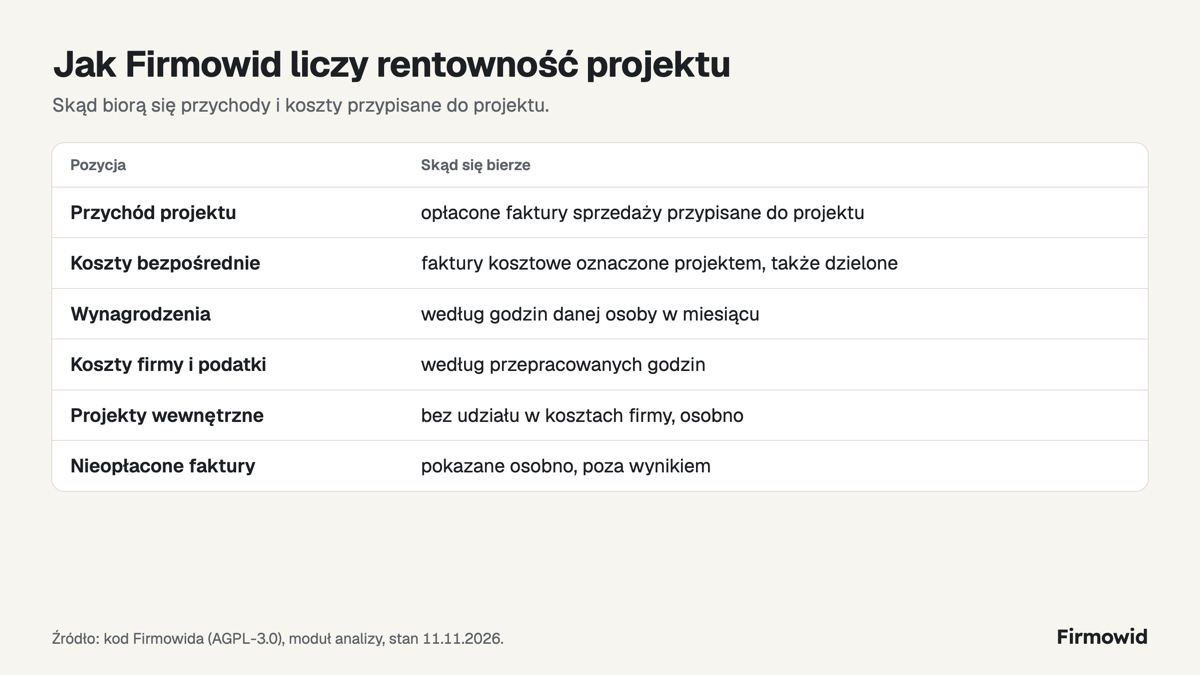
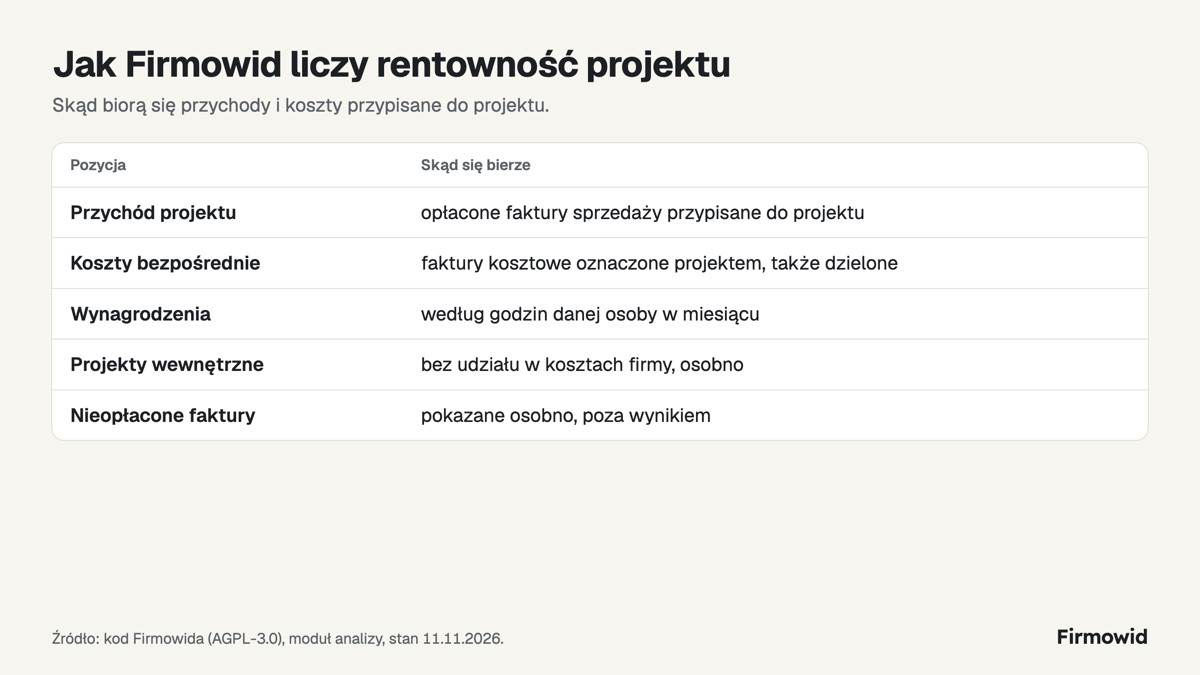
fix(guides): drop the shared cost row from the profitability guide
The table and its graphic said company costs and taxes are spread
over projects by hours worked. The Analysis screen does not do that,
as the feature page and the help page state.

diff --git a/priv/guides/rentownosc-projektu-firma-uslugowa.md b/priv/guides/rentownosc-projektu-firma-uslugowa.md
@@ -2,7 +2,7 @@
 title: "Rentowność projektu: jak ją liczyć w firmie usługowej"
 description: "Rentowność projektu to wynik podzielony przez przychód. Jak przypisać koszty i godziny do projektu i co te liczby dały nam w rozmowie z klientem o cenie."
 published: 2026-11-12
-updated: 2026-11-24
+updated: 2026-11-26
 category: firma-uslugowa
 ---
 
@@ -49,7 +49,6 @@ Na podstawie rentowności projektów byliśmy w stanie przedstawić klientowi so
 | Przychód projektu | opłacone faktury sprzedaży przypisane do projektu |
 | Koszty bezpośrednie | faktury kosztowe i wydatki oznaczone projektem, także dzielone między kilka projektów |
 | Wynagrodzenia | dzielone między projekty według godzin danej osoby w miesiącu |
-| Koszty firmy i podatki | rozkładane na projekty według [przepracowanych godzin](/funkcje/czas-pracy) |
 | Projekty wewnętrzne | bez udziału w kosztach firmy, widoczne osobno |
 | Nieopłacone faktury | pokazane osobno, poza wynikiem |
 
@@ -57,7 +56,7 @@ W Firmowidzie te liczby zbiera [Analiza przychodów i kosztów](/funkcje/analiza
 
 W iFirmie projekt też zbiera przychody i koszty, ale wynagrodzenia pracowników dodaje się do niego ręcznie.
 
-![Rentowność projektu w Firmowidzie: przychód to opłacone faktury przypisane do projektu, koszty bezpośrednie to faktury oznaczone projektem, wynagrodzenia oraz koszty firmy i podatki dzieli się według godzin, projekty wewnętrzne są osobno, a nieopłacone faktury poza wynikiem.](/images/guides/rentownosc-projektu-jak-liczymy.webp)
+![Rentowność projektu w Firmowidzie: przychód to opłacone faktury przypisane do projektu, koszty bezpośrednie to faktury oznaczone projektem, wynagrodzenia dzieli się według godzin, projekty wewnętrzne są osobno, a nieopłacone faktury poza wynikiem.](/images/guides/rentownosc-projektu-jak-liczymy.webp)
 
 ## Źródła
 
